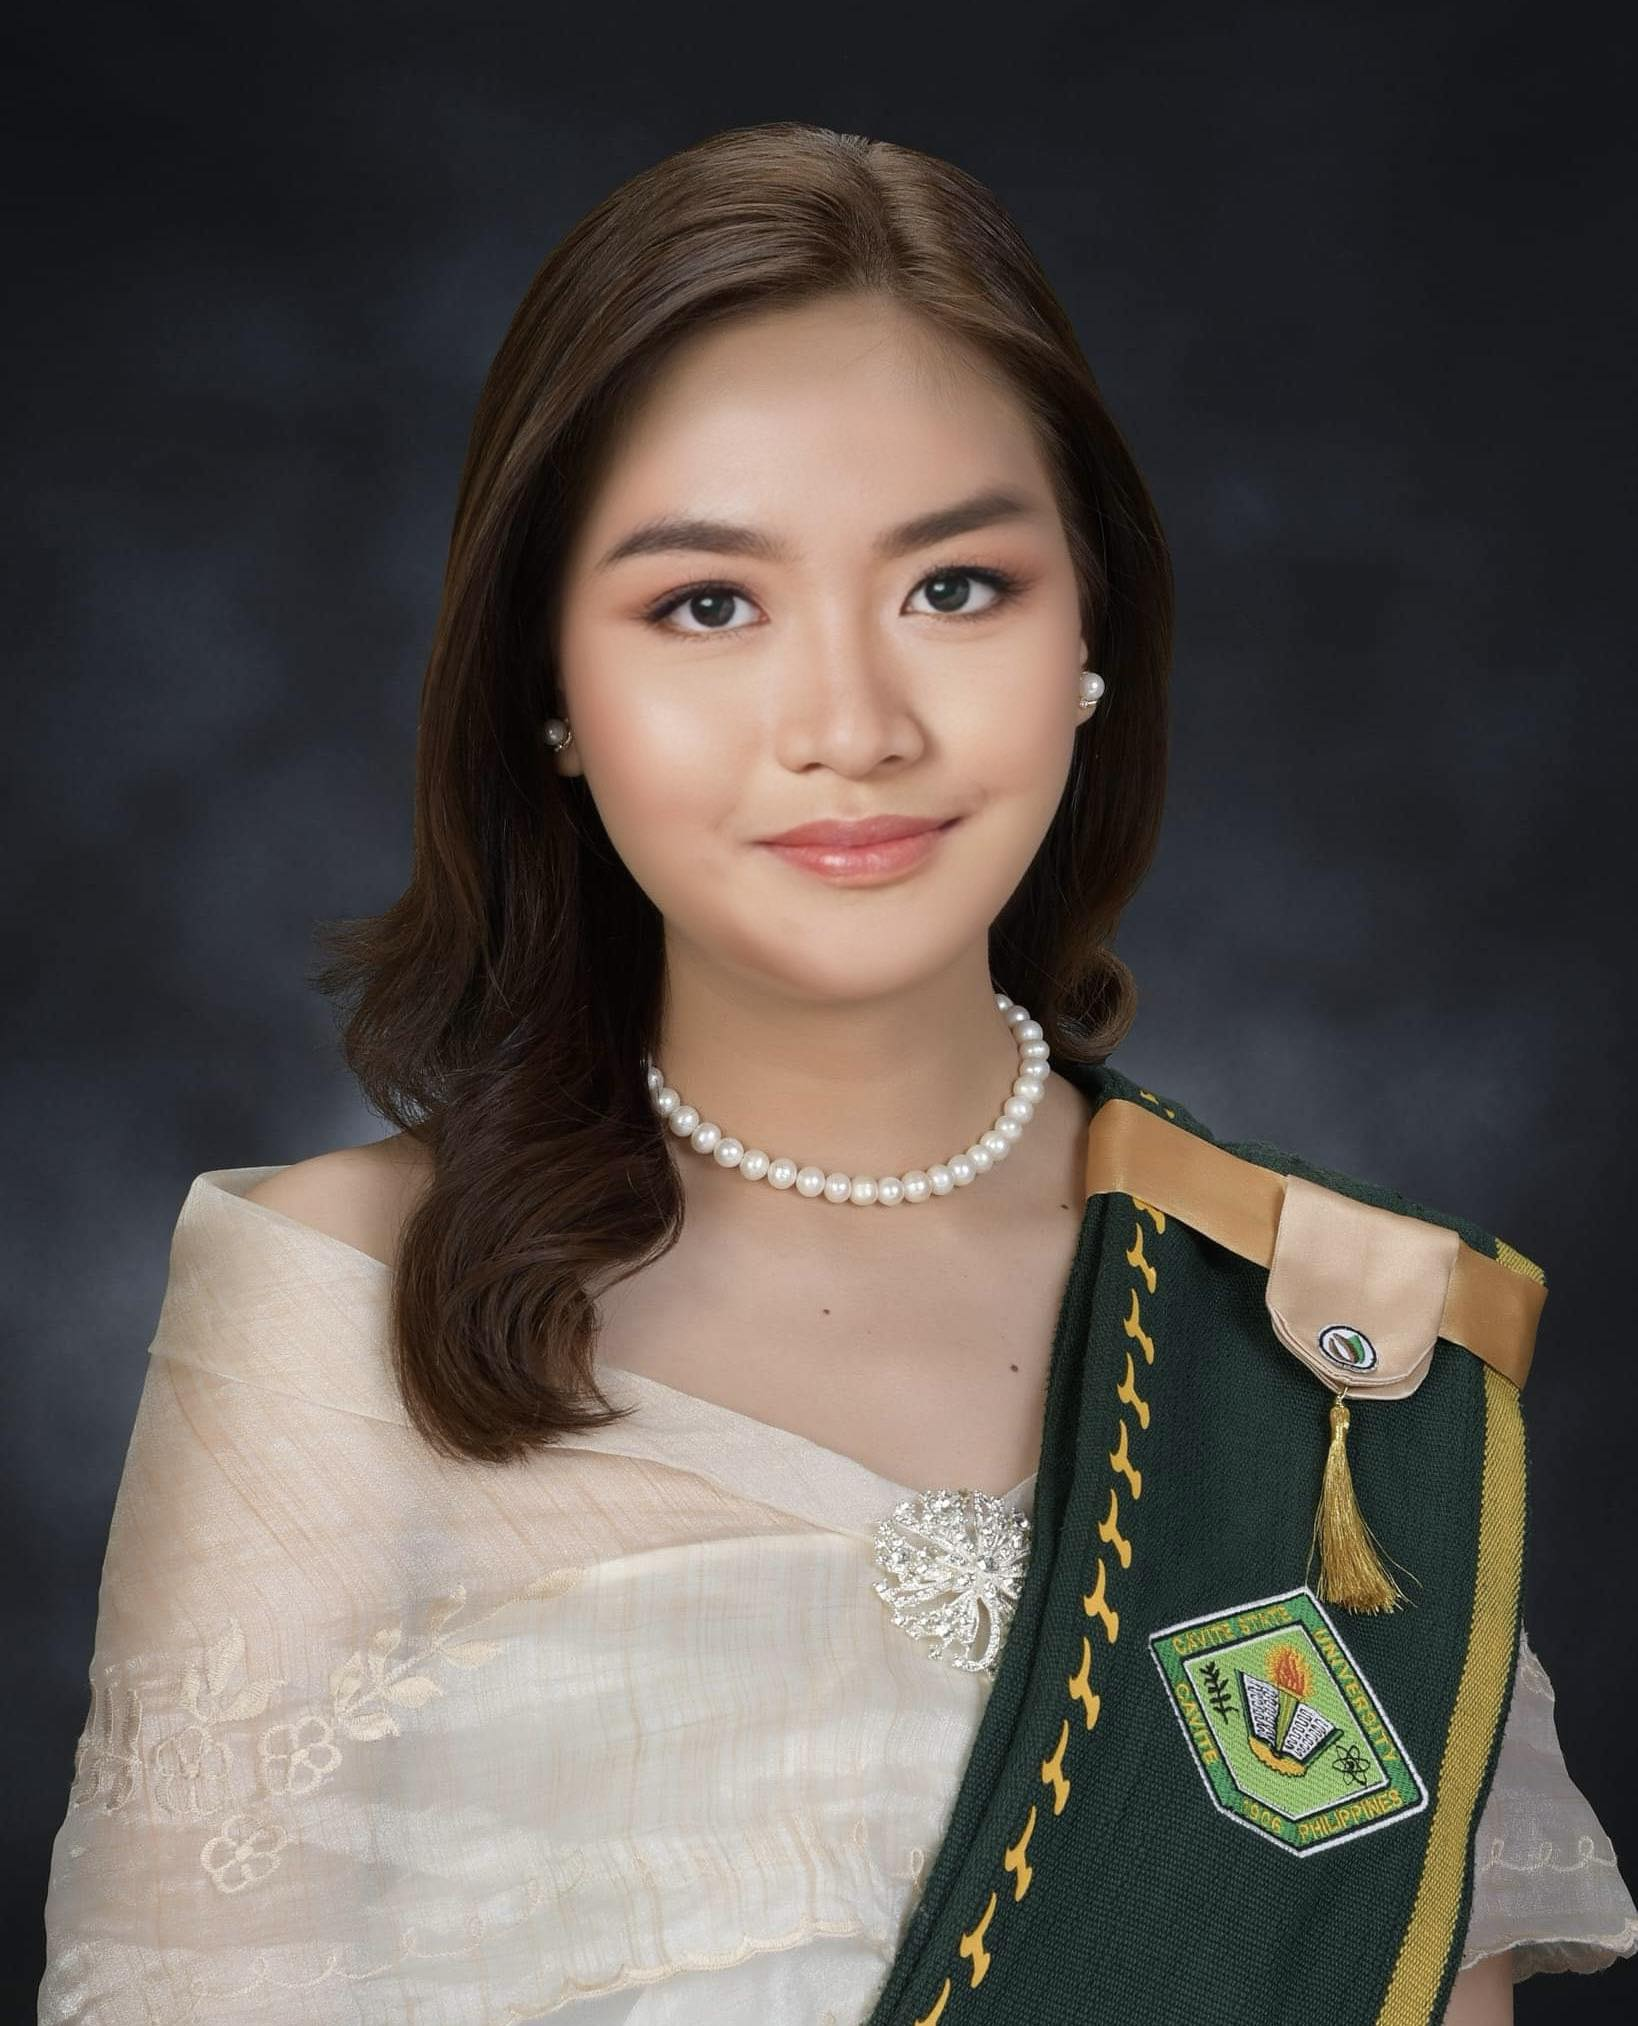
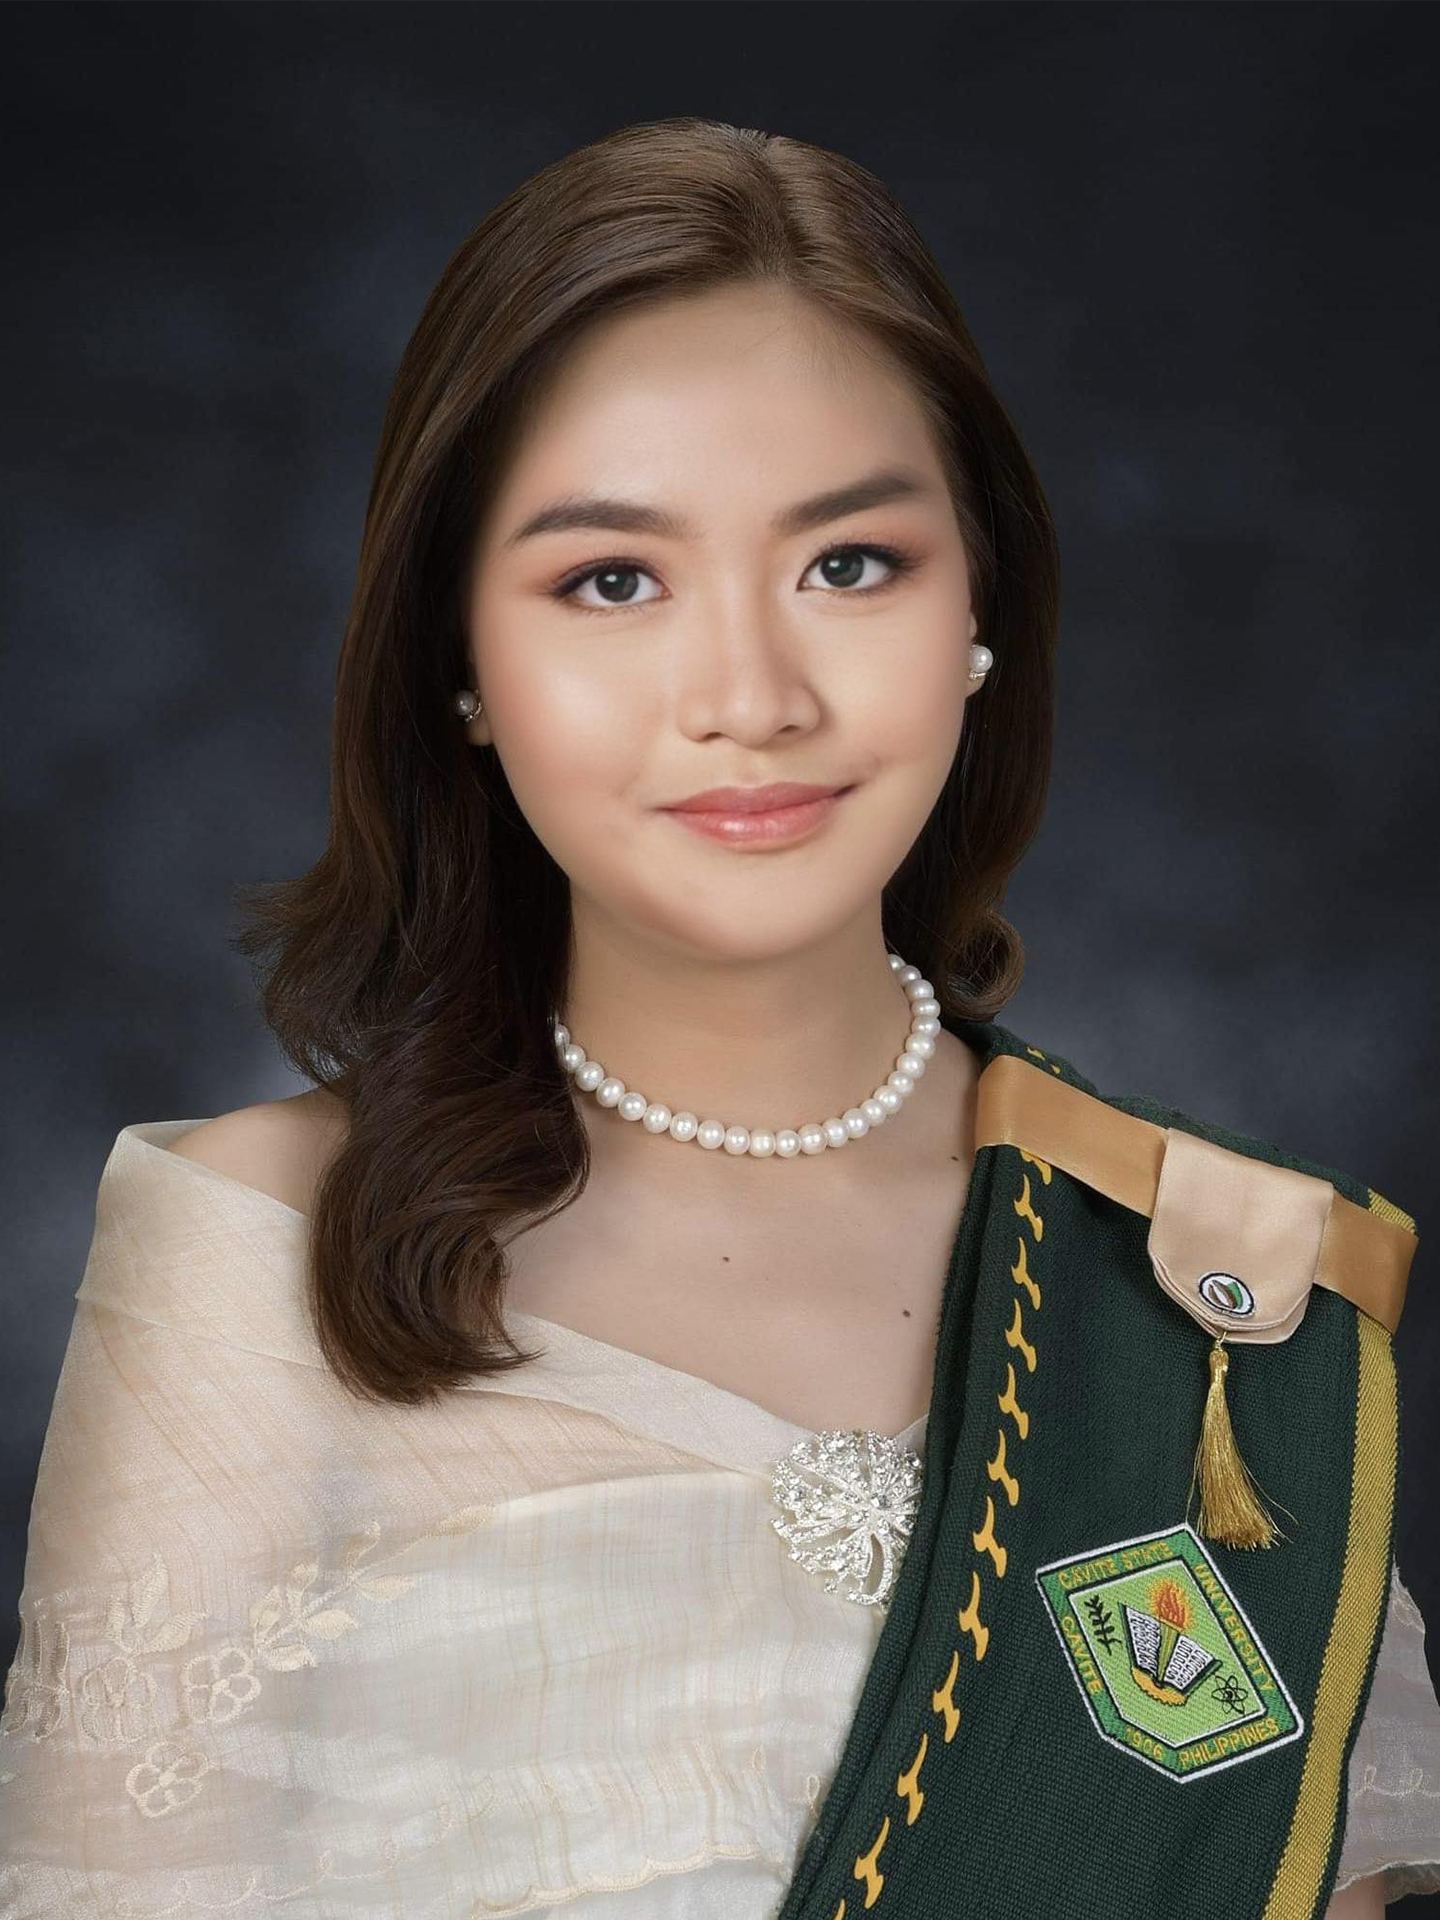
added hazel's updated site

Changed region(s): [[0.0, 0.0625, 1.0, 1.0], [0.3438, 0.9688, 0.4688, 1.0], [0.2188, 0.9062, 0.25, 0.9375]]

diff --git a/CvSU Alumni Website/Web pages/hazel_site/hazel_profile.html b/CvSU Alumni Website/Web pages/hazel_site/hazel_profile.html
@@ -3,25 +3,25 @@
     data-wf-site="657e60478331325e703d1cf1" lang="en">
 
 <head>
-    <meta name="theme-color" content="rgba(61, 255, 174, 0.5)" />
+    <meta name="theme-color" content="#ffb5cb" />
     <meta charset="utf-8" />
     <title>Magma, Hazel Lian R.  | Alumni Profile</title>
     <meta
-        content="Leader of this group, organized, and friendly. He co-designed this website with his groupmates. Co-developer of OpenUtau, a free and open-source singing synthesizer program for standard and AI voicebanks."
+        content="The typical CS student who's lost at everything"
         name="description" />
     <meta content="Magma, Hazel Lian R.  | Alumni Profile" property="og:title" />
     <meta
-        content="Leader of this group, organized, and friendly. He co-designed this website with his groupmates. Co-developer of OpenUtau, a free and open-source singing synthesizer program for standard and AI voicebanks."
+        content="The typical CS student who's lost at everything"
         property="og:description" />
     <meta
-        content="/CvSU Alumni Website/Assets/pao files/pao icon cover"
+        content="/CvSU Alumni Website/Assets/hazel files/hazel Icon header.png"
         property="og:image" />
     <meta content="Magma, Hazel Lian R.  | Alumni Profile" property="twitter:title" />
     <meta
-        content="Leader of this group, organized, and friendly. He co-designed this website with his groupmates. Co-developer of OpenUtau, a free and open-source singing synthesizer program for standard and AI voicebanks."
+        content="The typical CS student who's lost at everything"
         property="twitter:description" />
     <meta
-        content="/CvSU Alumni Website/Assets/pao files/pao icon cover"
+        content="//CvSU Alumni Website/Assets/hazel files/hazel Icon header.png"
         property="twitter:image" />
     <meta property="og:type" content="website" />
     <meta content="summary_large_image" name="twitter:card" />
@@ -41,9 +41,7 @@
     <link
         href="/CvSU Alumni Website/Assets/CvSU logo minimal.svg"
         rel="apple-touch-icon" />
-    <script
-        type="text/javascript">window.__WEBFLOW_CURRENCY_SETTINGS = { "currencyCode": "USD", "symbol": "$", "decimal": ".", "fractionDigits": 2, "group": ",", "template": "{{wf {\"path\":\"symbol\",\"type\":\"PlainText\"} }} {{wf {\"path\":\"amount\",\"type\":\"CommercePrice\"} }} {{wf {\"path\":\"currencyCode\",\"type\":\"PlainText\"} }}", "hideDecimalForWholeNumbers": false };</script>
-
+    
     <!-- Get css icons from css.gg -->
     <link href="/CvSU Alumni Website/sun moon.css" rel="stylesheet">
 
@@ -85,7 +83,7 @@
 		</div>
 	</div>
     <div class="page-wrapper">
-        <div class="section pao-page-header">
+        <div class="section hazel-page-header">
             <div class="container w-container">
                 <div class="w-layout-grid ebook-page-grid">
                     <div class="text-box">
@@ -102,7 +100,7 @@
                                         src="/CvSU Alumni Website/Assets/hazel files/hazel Icon header.png"
                                         alt="" class="image" /></div>
                                 <div class="w-slide"><img loading="lazy" 
-                                        src="/CvSU Alumni Website/Assets/pao files/" 
+                                        src="/CvSU Alumni Website/Assets/hazel files/hazel grad pic.jpg" 
                                         alt="" class="image" /></div>
                                 <div class="w-slide"><img loading="lazy" 
                                     src="/CvSU Alumni Website/Assets/pao files/"
@@ -130,10 +128,10 @@
                             data-infinite="true">
                             <div class="mask w-slider-mask">
                                 <div class="w-slide"><img loading="lazy"
-                                        src="/CvSU Alumni Website/Assets/pao files/"
+                                        src="/CvSU Alumni Website/Assets/hazel files/hazel Icon header.png"
                                         alt="" class="image" /></div>
                                 <div class="w-slide"><img loading="lazy" 
-                                        src="/CvSU Alumni Website/Assets/pao files/" 
+                                        src="/CvSU Alumni Website/Assets/hazel files/hazel grad pic.jpg" 
                                         alt="" class="image" /></div>
                                 <div class="w-slide"><img loading="lazy" 
                                     src="/CvSU Alumni Website/Assets/pao files/"
@@ -150,7 +148,7 @@
                     </div>
                 </div>
                 <div class="text-box">
-                    <p class="paragraph medium">kopiko blanko</p>
+                    <p class="paragraph medium">The typical CS student who's lost at everything</p>
                     <div class="w-layout-vflex flex-block">
                         <p class="paragraph medium">Nickname: Hazel</p>
                         <p class="paragraph medium">Age: 22</p>
@@ -159,7 +157,7 @@
                         <p class="paragraph medium">Email: hazellian.magma@cvsu.edu.ph</p>
                     </div>
                     <div class="spacer _16"></div>
-                    <blockquote class="pao-block-quote">&quot;Striving for more doesn’t mean you’re not contented&quot;</blockquote>
+                    <blockquote class="hazel-block-quote">&quot;Striving for more doesn’t mean you’re not contented&quot;</blockquote>
                     <div class="spacer _16"></div><a
                         href="hihi wala pang pdf"
                         class="button w-button">Download the Alumni profile</a>

diff --git a/CvSU Alumni Website/style base.css b/CvSU Alumni Website/style base.css
@@ -2571,6 +2571,17 @@ figcaption {
   padding-bottom: 32px;
 }
 
+.section.hazel-page-header {
+  background-color: var(--black);
+  color: var(--white);
+  background-image: radial-gradient(circle at 0%, rgba(255, 96, 234, 0.5), rgba(0, 0, 0, 0) 47%), radial-gradient(circle at 30% 150%, rgb(249, 255, 161), rgba(0, 0, 0, 0) 58%), linear-gradient(rgba(0, 0, 0, .5), rgba(0, 0, 0, .5)), url("https://assets-global.website-files.com/657e60478331325e703d1cf1/658191761c0ad8e3be86f725_Imus-Campus-scaled.jpg");
+  background-position: 0 0, 0 0, 0 0, 50% 35%;
+  background-repeat: repeat, repeat, repeat, repeat;
+  background-size: auto, auto, auto, cover;
+  padding-top: 96px;
+  padding-bottom: 32px;
+}
+
 .section.black-gradient {
   background-color: var(--black);
   background-image: radial-gradient(circle farthest-corner at 0% 50%, var(--cvsu-light-green), rgba(0, 0, 0, 0) 35%), radial-gradient(circle farthest-corner at 40% 130%, rgba(252, 255, 89, .5), rgba(0, 0, 0, 0) 58%);
@@ -4351,6 +4362,15 @@ figcaption {
 
 .jm-block-quote {
   background-color: #80c6ff;
+  border: 1px #000;
+  border-radius: 20px;
+  font-family: Merriweather, serif;
+  font-weight: 700;
+  box-shadow: 0 6px 5px rgba(0, 0, 0, .2);
+}
+
+.hazel-block-quote {
+  background-color: #ffb5cb;
   border: 1px #000;
   border-radius: 20px;
   font-family: Merriweather, serif;

diff --git a/CvSU Alumni Website/Web pages/profiles/Alumni_profiles.html b/CvSU Alumni Website/Web pages/profiles/Alumni_profiles.html
@@ -106,8 +106,7 @@
                             <div class="paragraph small">Bachelor of Science in Computer Science</div><a href="#"
                                 class="card-text-link w-inline-block">
                                 <h2 class="heading h3">Magma, Hazel Lian R.</h2>
-                                <p class="paragraph small">description nyo about yourself etc like name, age, address,
-                                    achievements etc, (gayahin nyo nlng yung example ni cadag)</p>
+                                <p class="paragraph small">The typical CS student who's lost at everything</p>
                             </a>
                         </div>
                         <div role="listitem" class="ebook-box w-dyn-item"><a href="/CvSU Alumni Website/Web pages/jm_site/jm_profile.html"
